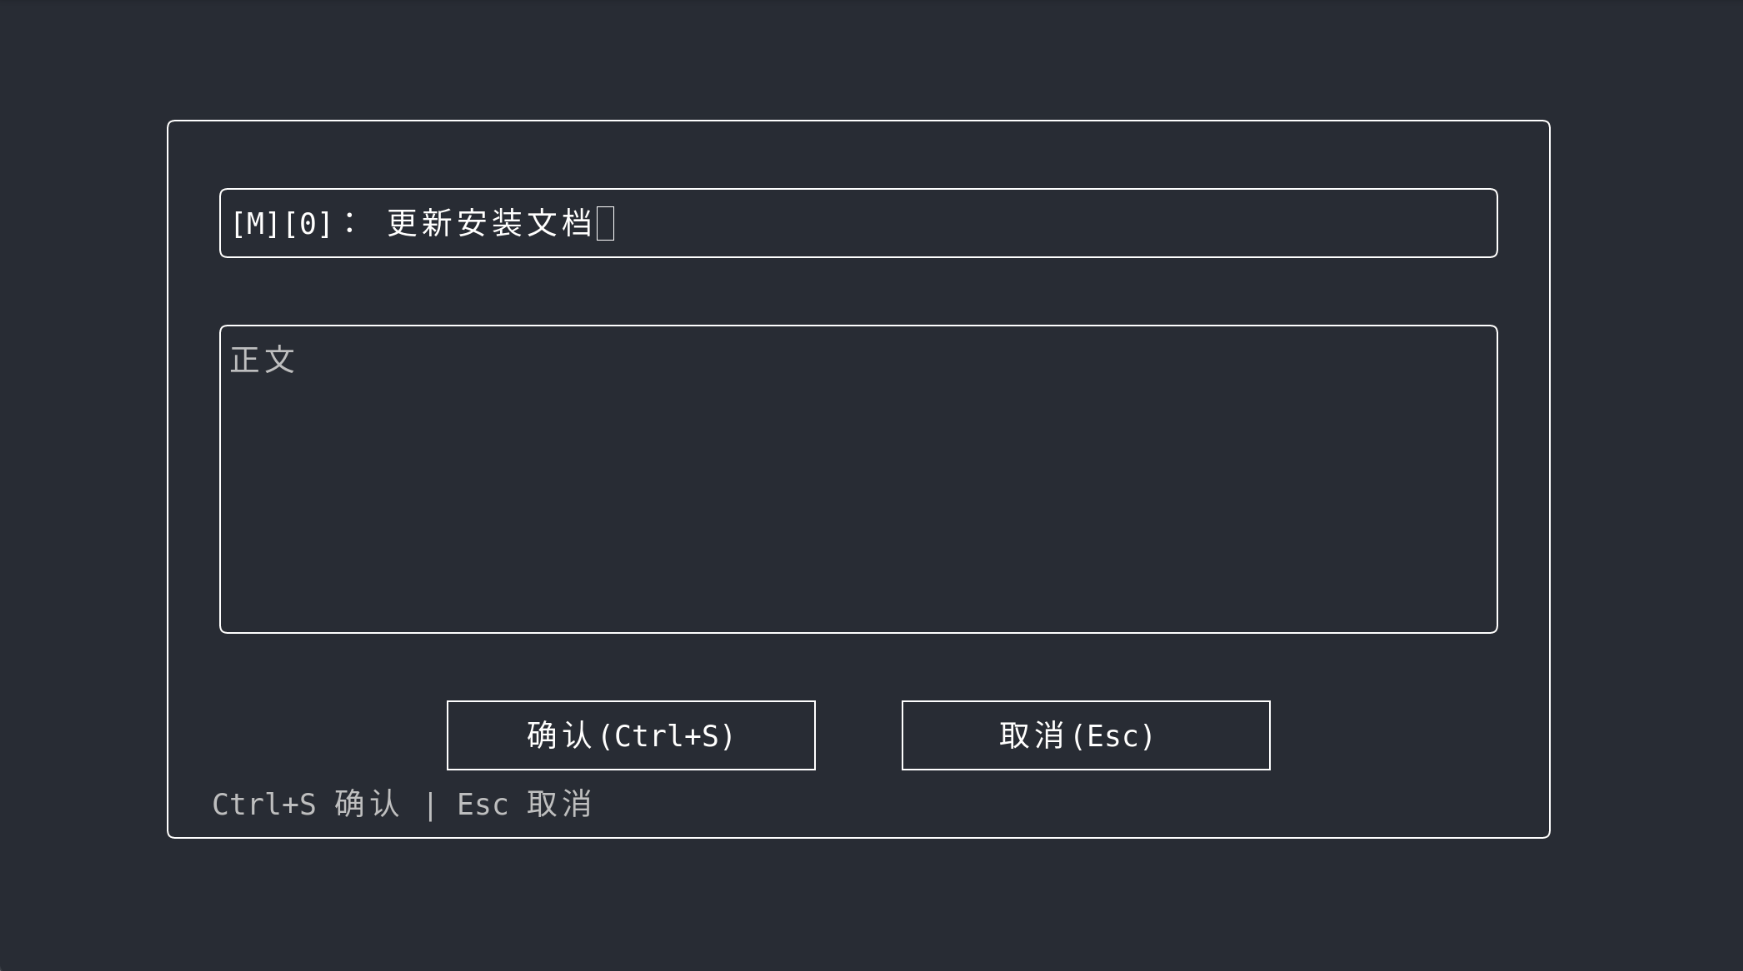
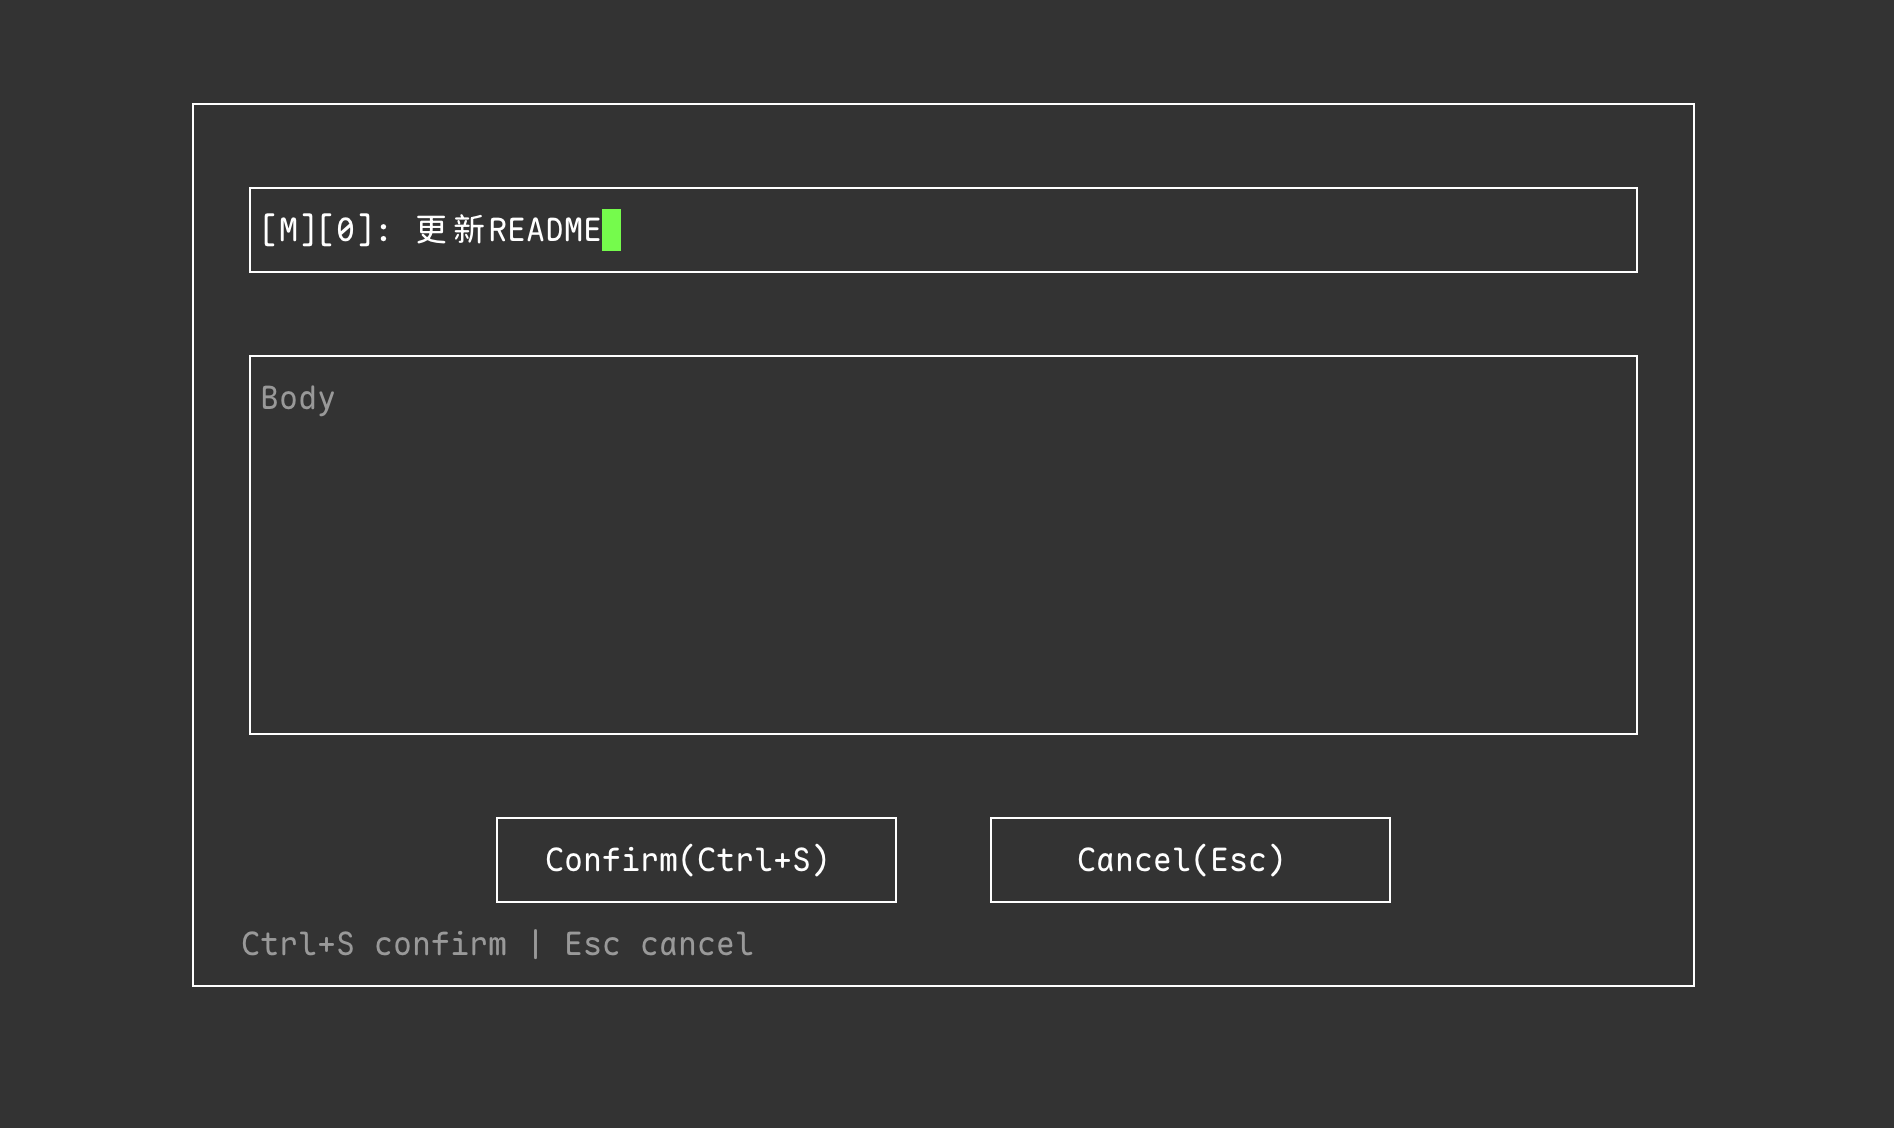
[M][0]: 更新README

diff --git a/README.md b/README.md
@@ -22,7 +22,8 @@ Python 3 stdlib only (`curses`, no pip, no compile). Use as `$GIT_EDITOR` / `cor
 - UI follows terminal default colors (bold / dim / reverse only)
 - Locale-aware UI: English by default; Chinese when `LANG` / `LC_*` starts with `zh`
 - UTF-8 input via wide-character API (Chinese IME works)
-- macOS / Linux terminals: Ghostty, Terminal.app, iTerm2, Linux VT
+- macOS / Linux terminals: Warp, Ghostty, Terminal.app, iTerm2, Linux VT
+- Mouse click support restores terminal mouse mode on exit, including Warp SGR mouse sequences
 
 ## Requirements
 
@@ -79,6 +80,7 @@ GIT_EDITOR=gitdlg git commit
 | `scripts/integration-test.sh` | Git + PTY integration tests |
 | `scripts/tui-smoke-test.py` | PTY smoke tests |
 | `scripts/terminal-app-compat-test.py` | Terminal.app / CJK tests |
+| `scripts/warp-garbage-test.py` | Warp mouse / terminal protocol garbage tests |
 | `scripts/pty_harness.py` | Shared PTY test helpers |
 
 ## Test

diff --git a/README.zh-CN.md b/README.zh-CN.md
@@ -22,7 +22,8 @@ Python 3 标准库实现（`curses`，无需 pip、无需编译）。作为 `$GI
 - 配色跟随终端默认色（仅 bold / dim / reverse）
 - 界面随 locale 切换：默认英文；`LANG` / `LC_*` 为 `zh*` 时显示中文
 - 宽字符输入（`get_wch`），中文输入法可正常使用
-- 兼容 macOS / Linux 终端：Ghostty、Terminal.app、iTerm2、Linux VT
+- 兼容 macOS / Linux 终端：Warp、Ghostty、Terminal.app、iTerm2、Linux VT
+- 支持鼠标点击，退出时会恢复终端鼠标模式，包括 Warp 的 SGR 鼠标序列
 
 ## 环境要求
 
@@ -79,6 +80,7 @@ GIT_EDITOR=gitdlg git commit
 | `scripts/integration-test.sh` | Git + PTY 集成测试 |
 | `scripts/tui-smoke-test.py` | PTY 冒烟测试 |
 | `scripts/terminal-app-compat-test.py` | Terminal.app / 中文测试 |
+| `scripts/warp-garbage-test.py` | Warp 鼠标 / 终端协议乱码测试 |
 | `scripts/pty_harness.py` | PTY 测试辅助 |
 
 ## 测试